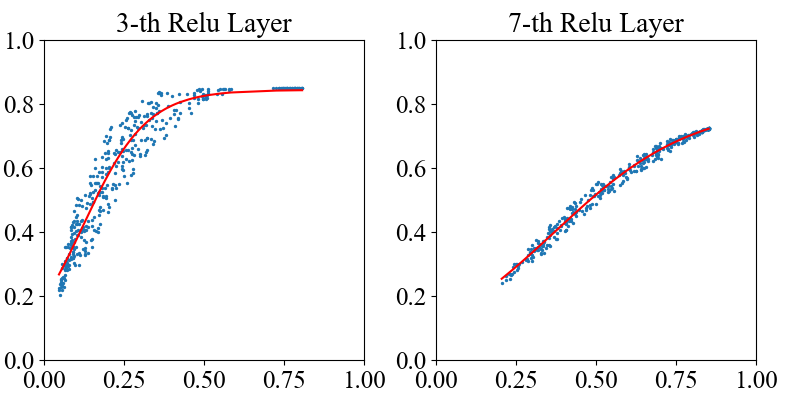
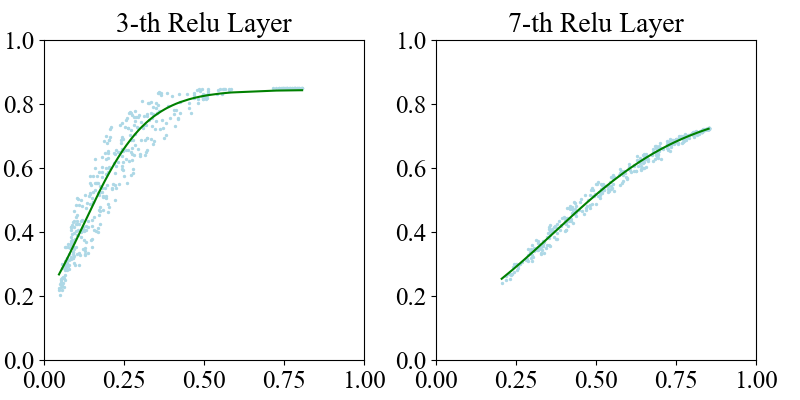
draw fig for green and clear

diff --git a/predictor_nonzero_relu/relu_layer_fit_nonezero_rate.py b/predictor_nonzero_relu/relu_layer_fit_nonezero_rate.py
@@ -42,7 +42,7 @@ def draw_predictor(predictor: Predictor, i_fcnz: List[List[float]], o_fnz: List[
         p_fnz[f] = sum(p_cnz) / len(p_cnz)
     i_fnz = [sum(cnz)/len(cnz) for cnz in i_fcnz]
     xarr, yarr = list(zip(*sorted(zip(i_fnz, p_fnz))))
-    ax.plot(xarr, yarr, 'r-')
+    ax.plot(xarr, yarr, 'g-')
     ax.set_xlabel(ax.get_xlabel() + f" err={round(float(np.sum(np.abs(np.array(o_fnz)-np.array(p_fnz)))), 2)}")
 
 
@@ -57,7 +57,7 @@ def draw_fit3(i_fnz: List[float], o_fnz: List[float], ax: Axes):
     lr.fit(X_tr, y)
     y_pred = lr.predict(X_tr)
     xarr, yarr = list(zip(*sorted(zip(i_fnz, y_pred))))
-    ax.plot(xarr, yarr, 'r-')
+    ax.plot(xarr, yarr, 'g-')
     ax.set_xlabel(ax.get_xlabel() + f" err={round(float(np.sum(np.abs(np.array(o_fnz)-y_pred))), 2)}")
 
 
@@ -70,7 +70,7 @@ def draw_mlp(i_fnz: List[float], o_fnz: List[float], ax: Axes):
     mlp.fit(X, y)
     y_pred = mlp.predict(X)
     xarr, yarr = list(zip(*sorted(zip(i_fnz, y_pred))))
-    ax.plot(xarr, yarr, 'r-')
+    ax.plot(xarr, yarr, 'g-')
     ax.set_xlabel(ax.get_xlabel() + f" err={round(float(np.sum(np.abs(y - y_pred))), 2)}")
 
 
@@ -83,7 +83,7 @@ def draw_logistic(i_fnz: List[float], o_fnz: List[float], ax: Axes):
     func = lambda x, k, p, r: (k*p*np.exp(r*x))/(k+p*(np.exp(r*x)-1))  # logistic函数
     popt, pcov = curve_fit(func, xarr, yarr, maxfev=50000)
     yarr_pred = func(xarr, *popt)
-    ax.plot(xarr, yarr_pred, 'r-', label='Logistic Fit')
+    ax.plot(xarr, yarr_pred, 'g-', label='Logistic Fit')
     # ax.set_xlabel(ax.get_xlabel() + f" err={round(float(np.sum(np.abs(yarr - yarr_pred))), 2)}")
 
 lg = {'size': 20}
@@ -127,7 +127,7 @@ def target_layers_in_out(cnn_name: str, target_type: Type[torch.nn.Module], uni_
                         c=[i / nframe for i in range(nframe-1)],
                         marker='.', cmap='viridis')
         else:
-            plt.scatter(i_fnz, o_fnz, s=2)
+            plt.scatter(i_fnz, o_fnz, s=2, c='lightblue')
         if predictors is not None:
             draw_predictor(predictors[l], i_fnz, o_fnz, ax)
         if fit == 'fit3':
